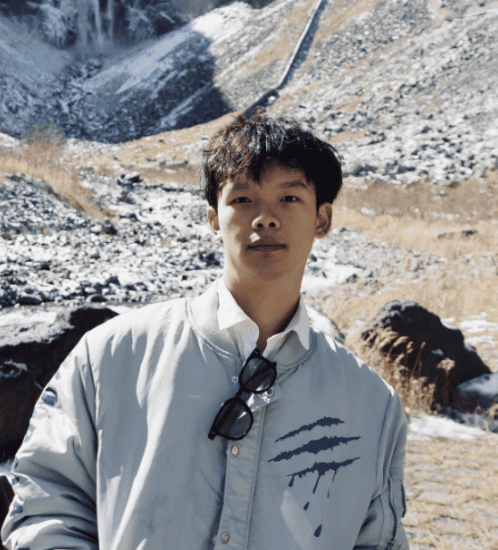
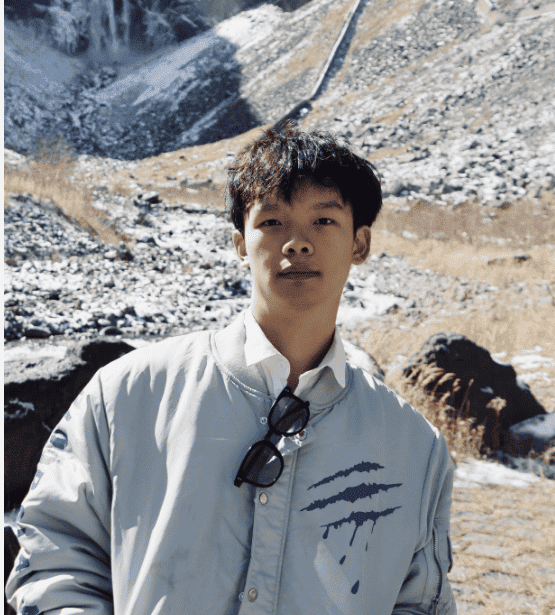
fix: update about png error

diff --git a/apps/web/src/modules/about/55AIWorkingGroup.tsx b/apps/web/src/modules/about/55AIWorkingGroup.tsx
@@ -10,7 +10,7 @@ const data = [
     intro: '华为 2012 实验室',
   },
   {
-    avatar: '/images/about/朱家顺.jpg',
+    avatar: '/images/about/朱家顺.png',
     name: '朱家顺',
     intro: '吉林大学计算机学院在读研究生',
   },
